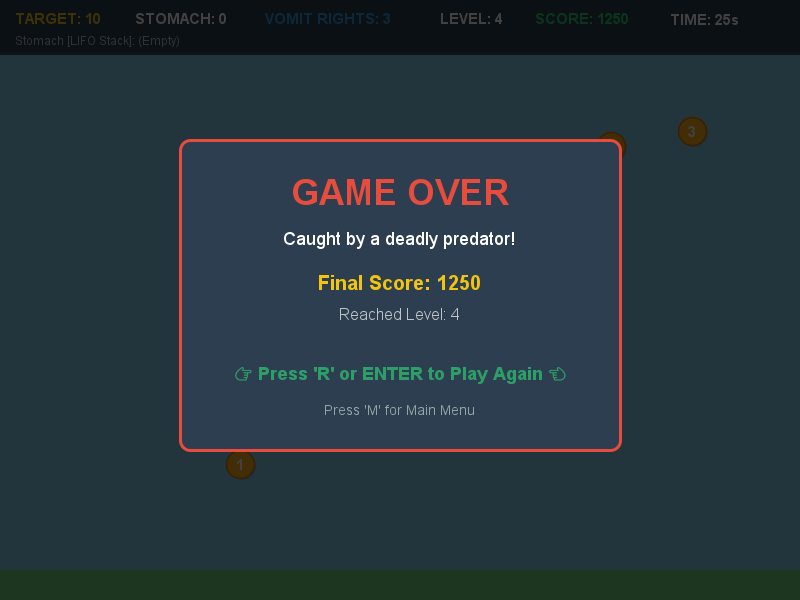
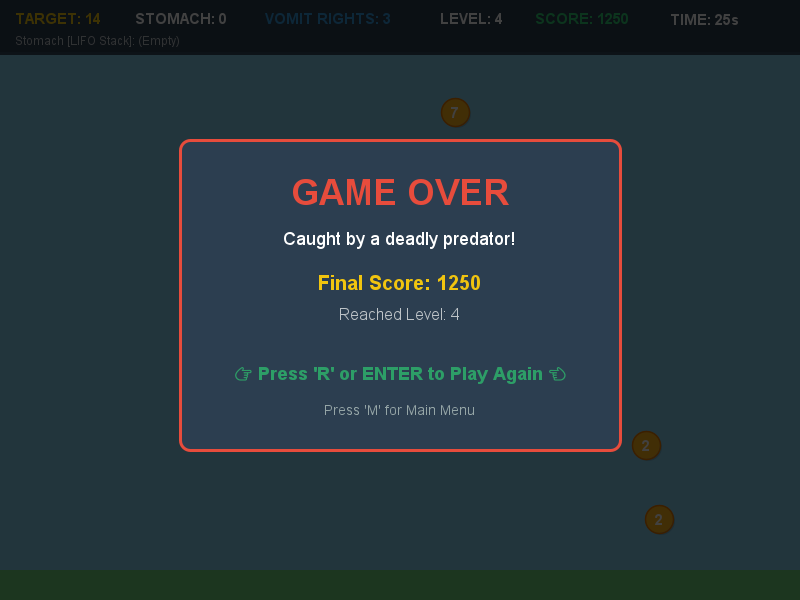
docs: showcase caterpillar and butterfly mechanics with in-game screenshots in README

diff --git a/MainGame/src/maingame/ScreenshotCapture.java b/MainGame/src/maingame/ScreenshotCapture.java
@@ -37,7 +37,6 @@ public class ScreenshotCapture {
         playPanel.getStomach().push(6);
         playPanel.getStomach().push(7);
 
-        // Advance a few frames for realistic placement & motion
         for (int i = 0; i < 25; i++) {
             playPanel.actionPerformed(null);
         }
@@ -54,10 +53,10 @@ public class ScreenshotCapture {
         overfedPanel.setSize(800, 600);
         overfedPanel.startGame();
         overfedPanel.setTargetSum(18);
-        overfedPanel.setCurrentSum(24); // Exceeds target!
+        overfedPanel.setCurrentSum(24);
         overfedPanel.setScore(750);
         overfedPanel.setLevel(3);
-        overfedPanel.setTimeLeft(9); // Less than 10s (pulsing red timer)
+        overfedPanel.setTimeLeft(9);
         overfedPanel.getStomach().clear();
         overfedPanel.getStomach().push(8);
         overfedPanel.getStomach().push(7);
@@ -74,7 +73,47 @@ public class ScreenshotCapture {
         ImageIO.write(overfedImg, "PNG", new File(dir, "gameplay-2.png"));
         System.out.println("Generated assets/screenshots/gameplay-2.png");
 
-        // 4. Capture Game Over / Score Screen
+        // 4. Capture Caterpillar Stage (+500 Bonus Opportunity)
+        GamePanel catPanel = new GamePanel();
+        catPanel.setSize(800, 600);
+        catPanel.startGame();
+        catPanel.setLevel(3);
+        catPanel.setTargetSum(25);
+        catPanel.setCurrentSum(16);
+        catPanel.setScore(950);
+        catPanel.setBirdPosition(260, 260);
+        Caterpillar cat = new Caterpillar(380, 270);
+        cat.isButterfly = false;
+        catPanel.setCaterpillar(cat);
+
+        BufferedImage catImg = new BufferedImage(800, 600, BufferedImage.TYPE_INT_RGB);
+        Graphics2D gCat = catImg.createGraphics();
+        catPanel.paint(gCat);
+        gCat.dispose();
+        ImageIO.write(catImg, "PNG", new File(dir, "caterpillar.png"));
+        System.out.println("Generated assets/screenshots/caterpillar.png");
+
+        // 5. Capture Butterfly Stage (Transformed & Fleeting)
+        GamePanel bflyPanel = new GamePanel();
+        bflyPanel.setSize(800, 600);
+        bflyPanel.startGame();
+        bflyPanel.setLevel(3);
+        bflyPanel.setTargetSum(25);
+        bflyPanel.setCurrentSum(16);
+        bflyPanel.setScore(950);
+        bflyPanel.setBirdPosition(260, 260);
+        Caterpillar bfly = new Caterpillar(410, 240);
+        bfly.isButterfly = true;
+        bflyPanel.setCaterpillar(bfly);
+
+        BufferedImage bflyImg = new BufferedImage(800, 600, BufferedImage.TYPE_INT_RGB);
+        Graphics2D gBfly = bflyImg.createGraphics();
+        bflyPanel.paint(gBfly);
+        gBfly.dispose();
+        ImageIO.write(bflyImg, "PNG", new File(dir, "butterfly.png"));
+        System.out.println("Generated assets/screenshots/butterfly.png");
+
+        // 6. Capture Game Over Screen
         GamePanel overPanel = new GamePanel();
         overPanel.setSize(800, 600);
         overPanel.startGame();
@@ -89,6 +128,7 @@ public class ScreenshotCapture {
         gOver.dispose();
         ImageIO.write(overImg, "PNG", new File(dir, "game-over.png"));
         System.out.println("Generated assets/screenshots/game-over.png");
+
         System.exit(0);
     }
 }

diff --git a/MainGame/src/maingame/GamePanel.java b/MainGame/src/maingame/GamePanel.java
@@ -499,6 +499,9 @@ public class GamePanel extends JPanel implements ActionListener {
     public void setScore(int score) { this.score = score; }
     public int getLevel() { return level; }
     public void setLevel(int level) { this.level = level; }
+    public Caterpillar getCaterpillar() { return caterpillar; }
+    public void setCaterpillar(Caterpillar caterpillar) { this.caterpillar = caterpillar; }
+    public void setBirdPosition(int x, int y) { this.birdX = x; this.birdY = y; }
     public void setDeathReason(String reason) { this.deathReason = reason; }
     public Stack<Integer> getStomach() { return stomach; }
     public void setCurrentSum(int sum) { this.currentSum = sum; }

diff --git a/README.md b/README.md
@@ -39,13 +39,28 @@ If you accidentally eat too much, Chicky turns **RED** from overfeeding! You mus
 
 ---
 
+## 🐛 Caterpillar Evolution & Bonus Mechanic
+
+Every 3 levels (`Level % 3 == 0`), a rare **Caterpillar** spawns at a random position on the field. Players are presented with a high-reward time-sensitive challenge:
+
+| 🐛 Stage 1: The Caterpillar (+500 Bonus) | 🦋 Stage 2: The Butterfly (Too Late!) |
+| :---: | :---: |
+| <img src="assets/screenshots/caterpillar.png" alt="Caterpillar Stage" width="400"/> | <img src="assets/screenshots/butterfly.png" alt="Butterfly Stage" width="400"/> |
+| **Catch within 2.5s for +500 PTS & Instant Level Up!** | **Transforms into a butterfly and flutters away—no bonus!** |
+
+- **0.0s – 2.5s (Tırtıl Evresi):** Segmented green caterpillar with a floating `+500` badge. Catching it awards **+500 bonus points** and **instantly clears the level**!
+- **2.5s – 4.5s (Kelebek Evresi):** Undergoes metamorphosis into a fluttering purple butterfly. Once transformed, it can no longer be caught or eaten.
+- **After 4.5s:** The butterfly flies off-screen and disappears completely.
+
+---
+
 ## 🕹 Features & Mechanics
 
 - 🎯 **Precision Counting:** Reach the randomly generated target sum perfectly. Not one more, not one less!
 - 🥞 **LIFO Stomach System:** Every grain swallowed is stored in `java.util.Stack`. The last item eaten is always the first one popped.
 - 🤮 **Vomiting Mechanic (Spacebar):** If you overshoot the target, consume a vomit charge to remove the topmost item from your stomach stack.
 - 🦊 **Lethal Predators:** Quick-moving predators patrol the airspace. A single contact results in an instant Game Over.
-- 🐛 **Caterpillar Evolution Bonus:** Catch green caterpillars for a massive **+500 points** before they flutter away as butterflies!
+- 🐛 **Caterpillar Metamorphosis:** High-stakes bonus event every 3 levels to accelerate your score!
 - 🔴 **Dynamic Visual Feedback:** 
   - Chicky turns bright red when overfed.
   - Timer pulses in red during the critical final 10 seconds.
@@ -98,6 +113,8 @@ chicky-precision-game/
 │       ├── main-menu.png       # Menu & instructions screen
 │       ├── gameplay-1.png      # In-game action with HUD & stack display
 │       ├── gameplay-2.png      # Overfed red state & vomit warning
+│       ├── caterpillar.png     # Level 3 caterpillar stage (+500 bonus)
+│       ├── butterfly.png       # Transformed fluttering butterfly
 │       └── game-over.png       # Game over overlay with final score
 └── MainGame/
     ├── build.xml
